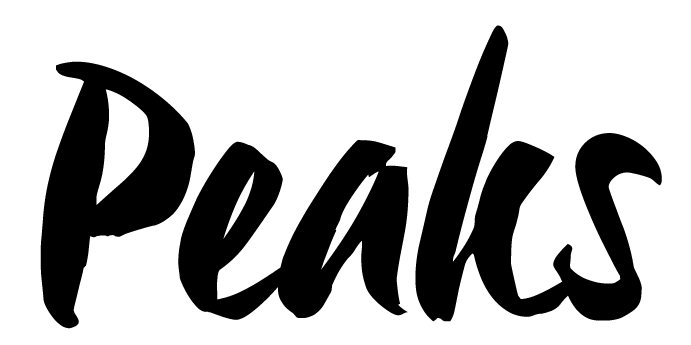
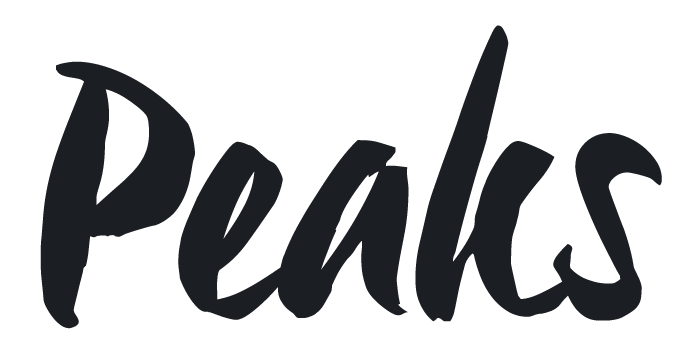
FEAT: Add Peaks theming

Changed region(s): [[0.0608, 0.058, 0.9725, 0.9565]]

diff --git a/themes/npirotte/assets/css/screen.css b/themes/npirotte/assets/css/screen.css
@@ -207,7 +207,7 @@ h4, h5, h6 {
     -webkit-font-feature-settings: 'dlig' 1, 'liga' 1, 'lnum' 1, 'kern' 1;
     -moz-font-feature-settings: 'dlig' 1, 'liga' 1, 'lnum' 1, 'kern' 1;
     -o-font-feature-settings: 'dlig' 1, 'liga' 1, 'lnum' 1, 'kern' 1;
-    color: #2E2E2E;
+    color: #24282D;
     line-height: 1.15em;
     margin: 0 0 0.4em 0;
     font-family: "Open Sans", sans-serif;
@@ -945,6 +945,15 @@ body:not(.post-template) .post-title {
     font-size: 3.6rem;
 }
 
+.post .post-header__image {
+  text-align: center;
+  margin-bottom: 1.4em;
+}
+
+.post .post-header__image img {
+  max-height: 220px;
+}
+
 .post-title a {
     text-decoration: none;
 }
@@ -1061,6 +1070,16 @@ body:not(.post-template) .post-title {
     border: none;
 }
 
+.post-template .cover-image {
+    text-align: center;
+    padding: 2em;
+    margin-bottom: 1em;
+ }
+ 
+ .post-template img {
+    max-width: 320px;
+ }
+
 /* Stop elements, such as img wider than the post content, from
    creating horizontal scroll - slight hack due to imperfections
    with browser width % calculations and rounding */
@@ -1160,7 +1179,7 @@ body:not(.post-template) .post-title {
 }
 
 .post-footer h4 a {
-    color: #2e2e2e;
+    color: #24282D;
     text-decoration: none;
 }
 
@@ -1779,11 +1798,11 @@ body:not(.post-template) .post-title {
         padding: 0 5px;
         border-radius: 0;
         border-width: 0;
-        color: #2e2e2e;
+        color: #24282D;
         background: transparent;
     }
     .menu-button:hover {
-        color: #2e2e2e;
+        color: #24282D;
         border-color: transparent;
         background: none;
     }
